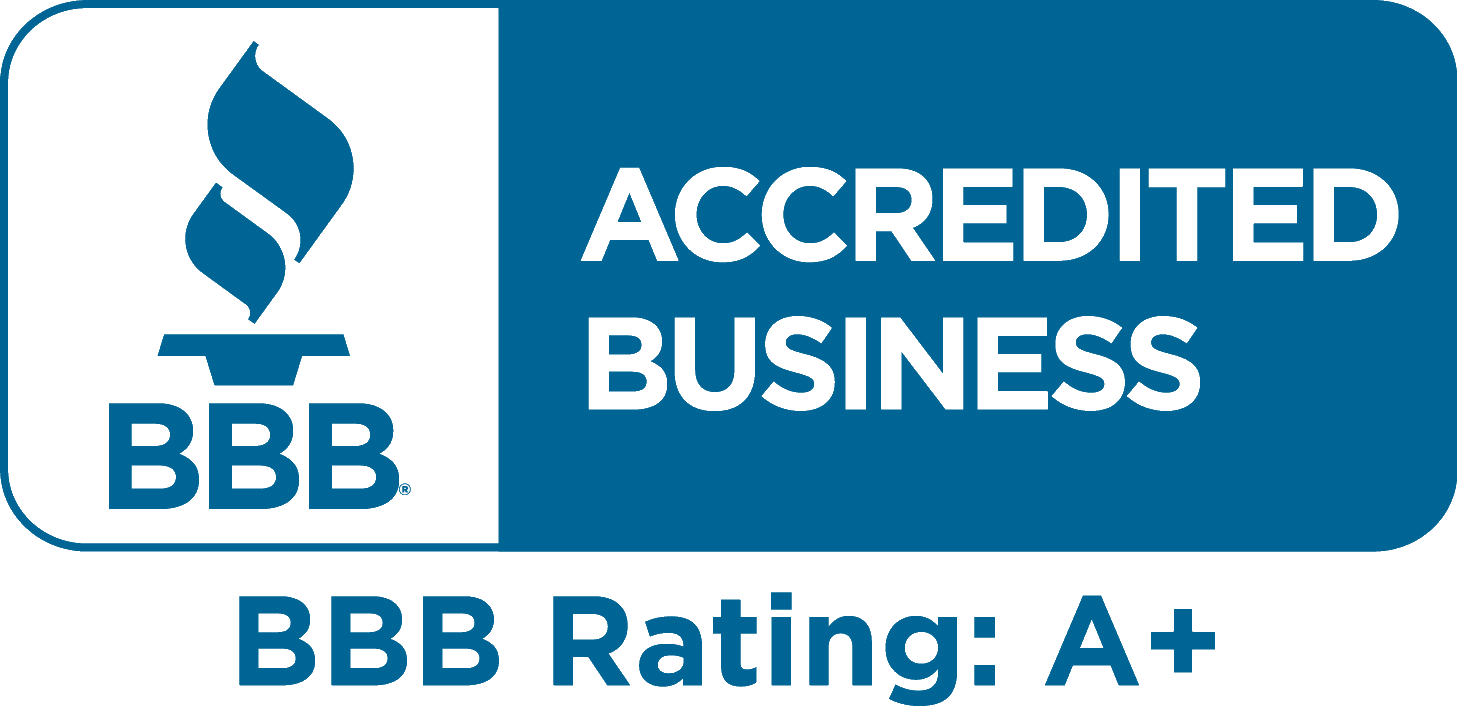
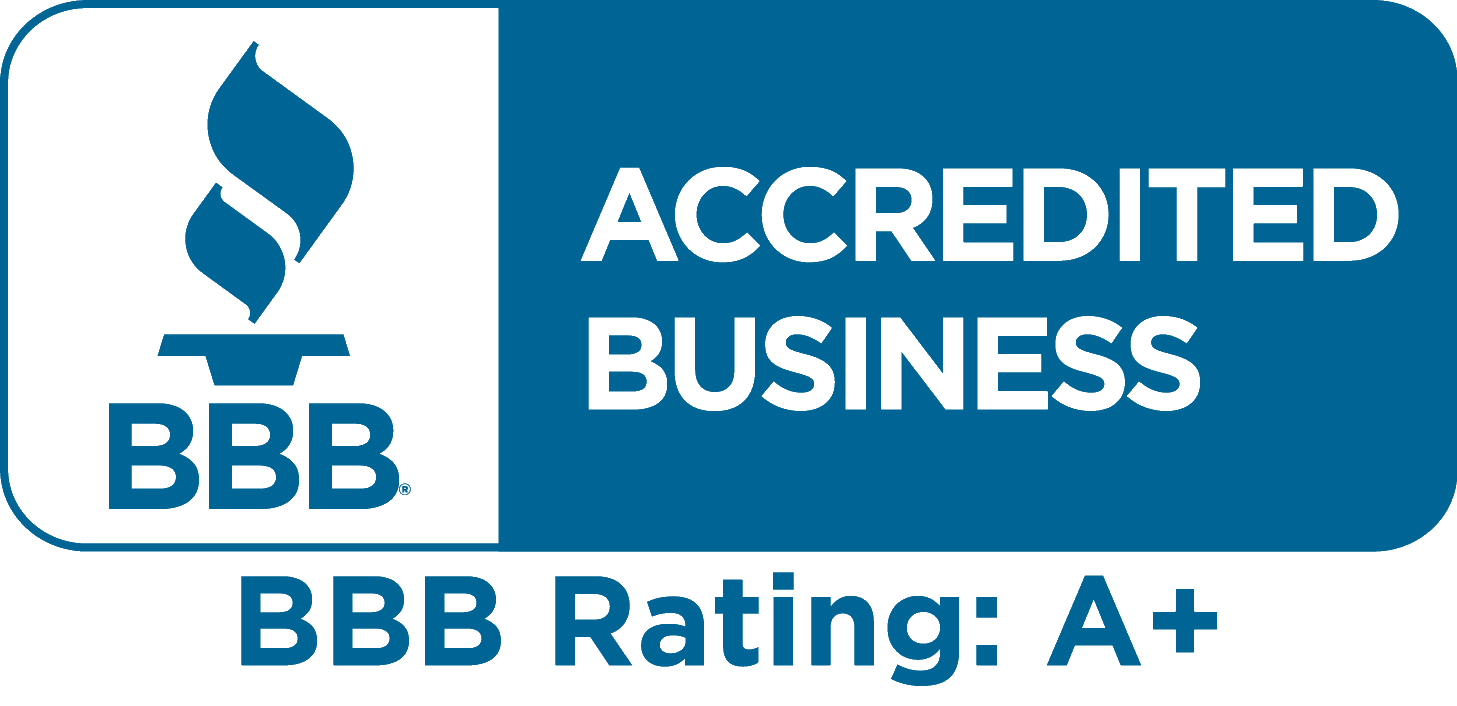
Add updated BBB image to Hero section

Changed region(s): [[0.3706, 0.8102, 0.8339, 1.0], [0.1544, 0.8102, 0.3397, 0.9972]]

diff --git a/vite.config.js b/vite.config.js
@@ -6,5 +6,5 @@ export default defineConfig({
   base: "/herreras-construction/",
   servor: {
     port: 3000,
-  }
+  },
 });

diff --git a/src/components/Hero/Hero.css b/src/components/Hero/Hero.css
@@ -24,7 +24,6 @@
 .hero__bbb {
   width: 150px;
   padding-bottom: 25px;
-  background-color: #fff;
 }
 
 .hero__shade {
